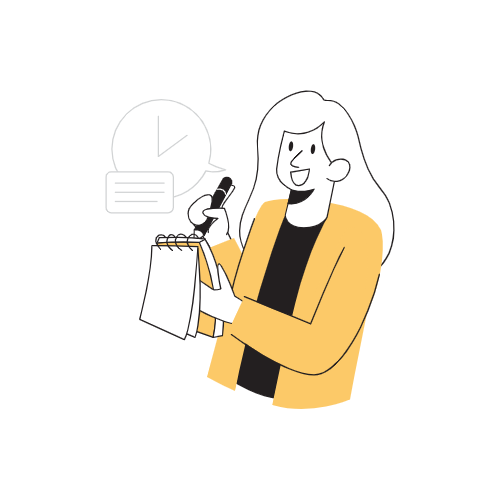
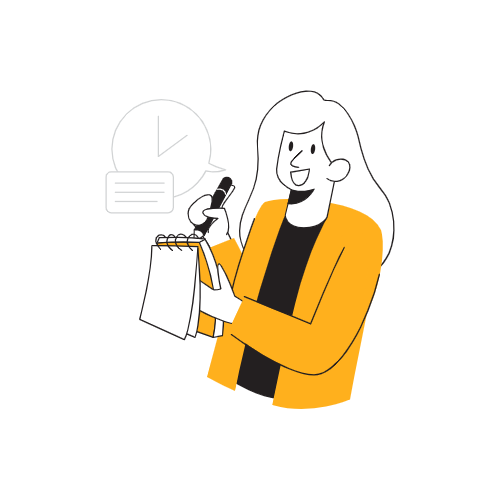
0405 parent css, img 수정

Changed region(s): [[0.33, 0.39, 0.78, 0.84]]

diff --git a/MyB_Project/src/main/webapp/resources/css/mobile/mparent_web_main.css b/MyB_Project/src/main/webapp/resources/css/mobile/mparent_web_main.css
@@ -55,7 +55,7 @@ html, body {
 	margin: auto;
 	width: 85%;
 	height: 150px;
-	margin-top: 20%;
+	margin-top: 11%;
 	border-radius: 6px;
 	background-color: #F8F8F8;
 }
@@ -74,7 +74,7 @@ html, body {
 }
 
 #noticetitle {
-	font-size:1.4em;
+	font-size:1.3em;
 	font-weight: bold;
 	padding:10px;
 }
@@ -104,7 +104,7 @@ html, body {
     text-align:left;
 }
 .btntitle {
-	font-size:1.4em;
+	font-size:1.3em;
 	font-weight: bold;
 	padding:10px;
 }
@@ -132,21 +132,21 @@ html, body {
 }
 
 #requestbtn {
-	grid-row: 2;
-	grid-column: 1;
 	width: 100%;
 	height: 100%;
 	border-radius: 6px;
 	background-color: #F2F2F2;
 	border-width: 0px;
+    min-height: 20em;
+    display: flex;
 }
 
 #requestchkbtn {
-	grid-row: 2;
-	grid-column: 2;
 	width: 100%;
 	height: 100%;
 	border-radius: 6px;
 	background-color: #F2F2F2;
 	border-width: 0px;
+    min-height: 20em;
+    display: flex;
 }

diff --git a/MyB_Project/src/main/webapp/resources/css/mobile/mparent_header.css b/MyB_Project/src/main/webapp/resources/css/mobile/mparent_header.css
@@ -8,7 +8,7 @@
     align-items: center;
     padding: 6% 8% 15% 8%;
     border-radius: 0% 0% 0% 25%;
-	background-color: #F2BE5C;	
+	background-color: #FFDB61;	
 	grid-gap: 5px;
 }
 

diff --git a/MyB_Project/src/main/webapp/resources/css/mobile/p_footer.css b/MyB_Project/src/main/webapp/resources/css/mobile/p_footer.css
@@ -4,7 +4,7 @@ footer {
 	height : 50px;
 	position: relative;
 	transform: translateY(-100%);
-	background: #F2BE5C;
+	background: #FFDB61;
 	height: 50px;
 	align-content: center;
 }
